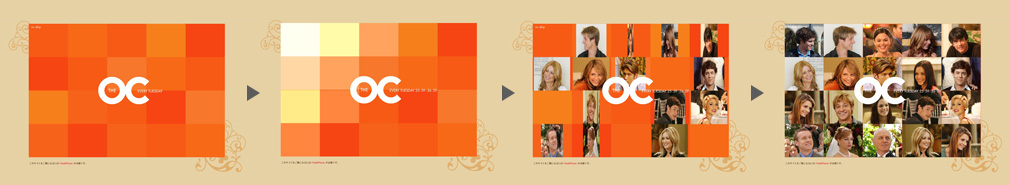
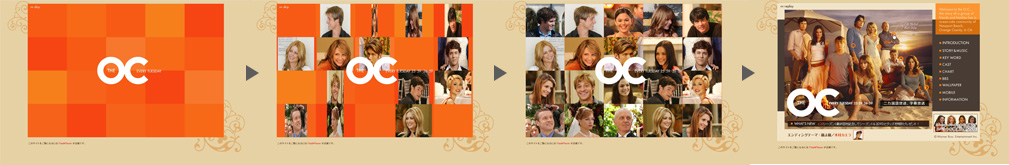
ポートフォリオサイト追加

diff --git a/capture1.html b/capture1.html
@@ -85,7 +85,7 @@
   【制作意図、担当箇所など】<br>
   イメージから赤をテーマカラーとし、黒をポイントで使うことでメリハリをつけた。
   日本側と外国側の対立、というストーリーなので、勢いのあるビジュアルデザインにした。<br>
-  ワイヤーフレーム・番組ロゴ・キャスト画像等の素材受理後、画面レイアウト、サイト訪問時flashアニメーション、メニューのアイコン、スペシャルメニューアイコンのflashアニメーション、
+  ワイヤーフレーム・番組ロゴ・キャスト画像等の素材受理後、画面レイアウト、トップページflashアニメーション、メニューのアイコン、スペシャルメニューアイコンのflashアニメーション、
   背景の模様、テキストの色などビジュアルデザイン提案、html・cssコーディングし、公開した。</li>
   <li class="text_s">※画像クリックで拡大します</li>
 </ul>
@@ -120,9 +120,18 @@
   【制作意図、担当箇所など】<br>
   テーマカラーの黄色をメインで用い、グリッドレイアウトを用いるとともに、
   ブログのページトップグラフィック部ではタイポグラフィにより、リズム感と抜けをつくり飽きさせないデザインにした。<br>
-  ワイヤーフレーム・ロゴ・絵画の画像等の素材受理後、画面レイアウト、背景イメージ、タイポグラフィ、色味、サイト訪問時flashアニメーションなどビジュアルデザイン提案、html・cssコーディングし、公開した。</li>
+  ワイヤーフレーム・ロゴ・絵画の画像等の素材受理後、画面レイアウト、背景イメージ、タイポグラフィ、色味、
+  トップページflashアニメーションなどビジュアルデザイン提案、html・cssコーディングし、公開した。</li>
   <li class="text_s">※画像クリックで拡大します</li>
 </ul>
+
+<div class="kako_bg2">
+  <div class="kako_box1"><span class="caption_r text_s">トップページアニメーション （オビが両サイドから出現、画面全体を覆って捌けた後メインビジュアルを表示）</span><a href="img/kako12_d.jpg" data-lightbox="group"><img img class="cap_img" src="img/kako12_d.jpg"></a></div>
+  </div>
+  <div class="kako_bg">
+
+  <div class="kako_box1"><a href="img/kako12_e.jpg" data-lightbox="group"><img img class="cap_img" src="img/kako12_e.jpg"></a></div>
+</div>
 <div class="kako_bg3">
   <a href="img/kako12_a.jpg" data-lightbox="group"><img class="cap_img" src="img/kako12_a.jpg"></a>
   <a href="img/kako12_b.jpg" data-lightbox="group"><img class="cap_img" src="img/kako12_b.jpg"></a>
@@ -142,9 +151,7 @@
     <li class="text_s">※画像クリックで拡大します</li>
   </ul>
   <div class="kako_bg">
-    <div class="kako_bg">
-      <div class="kako_box1"><span class="caption_r text_s">サイト訪問時アニメーション</span><a href="img/kako13_a.jpg" data-lightbox="group"><img img class="cap_img" src="img/kako13_a.jpg"></a></div>
-</div>
+      <div class="kako_box1"><span class="caption_r text_s">トップページアニメーション</span><a href="img/kako13_a.jpg" data-lightbox="group"><img img class="cap_img" src="img/kako13_a.jpg"></a></div>
   </div>
   <div class="kako_bg">
     <a href="img/kako13_b.jpg" data-lightbox="group"><img class="cap_img" src="img/kako13_b.jpg"></a>
@@ -191,6 +198,9 @@
 ワイヤーフレーム・番組ロゴ・キャスト画像等の素材受理後、画面レイアウト、色味、背景イメージ、テキストの色などビジュアルデザイン提案、html・cssコーディングし、公開した。</li>
 <li class="text_s">※画像クリックで拡大します</li>
 </ul>
+<div class="kako_bg">
+  <div class="kako_box1"><span class="caption_r text_s">トップページアニメーション （オブジェクトが旋回しながら拡大。赤系、緑系、青系の３色展開。）</span><a href="img/kako14_d.jpg" data-lightbox="group"><img img class="cap_img" src="img/kako14_d.jpg"></a></div>
+</div>
 <div class="kako_bg">
 <a href="img/kako14_a.jpg" data-lightbox="group"><img class="cap_img" src="img/kako14_a.jpg"></a>
 <a href="img/kako14_b.jpg" data-lightbox="group"><img class="cap_img" src="img/kako14_b.jpg"></a>

diff --git a/css/works.scss b/css/works.scss
@@ -127,18 +127,26 @@ padding-bottom: 20px;
 
 .kako_bg{
 	background-color: #fff;
-	width: 99%;
-	padding: 1vw 0vw 1vw 1vw;
+	width: 98%;
+	padding: 1vw 0.5vw;
 	display: flex;
 	justify-content: space-around;
 	flex-wrap: nowrap;
 	margin-bottom: 1em;
 }
 
+.kako_bg2{
+	background-color: #fff;
+	width: 98%;
+	padding: 1vw 0.5vw;
+	display: flex;
+}
+
+
 .kako_bg3{
 	background-color: #fff;
 	width: 98%;
-	padding: 1vw 0.5vw 1vw 1vw;
+	padding: 1vw 0.5vw;
 	display: flex;
 	justify-content: space-around;
 	flex-wrap: nowrap;
@@ -147,7 +155,8 @@ padding-bottom: 20px;
 
 
 .cap_img{
-width: 97%;
+width: 95%;
+margin: auto;
 }
 .cap_img1{
 width: 40%;

diff --git a/css/works.css b/css/works.css
@@ -160,18 +160,25 @@ article {
 
 .kako_bg {
   background-color: #fff;
-  width: 99%;
-  padding: 1vw 0vw 1vw 1vw;
+  width: 98%;
+  padding: 1vw 0.5vw;
   display: flex;
   justify-content: space-around;
   flex-wrap: nowrap;
   margin-bottom: 1em;
 }
 
+.kako_bg2 {
+  background-color: #fff;
+  width: 98%;
+  padding: 1vw 0.5vw;
+  display: flex;
+}
+
 .kako_bg3 {
   background-color: #fff;
   width: 98%;
-  padding: 1vw 0.5vw 1vw 1vw;
+  padding: 1vw 0.5vw;
   display: flex;
   justify-content: space-around;
   flex-wrap: nowrap;
@@ -179,7 +186,8 @@ article {
 }
 
 .cap_img {
-  width: 97%;
+  width: 95%;
+  margin: auto;
 }
 
 .cap_img1 {
